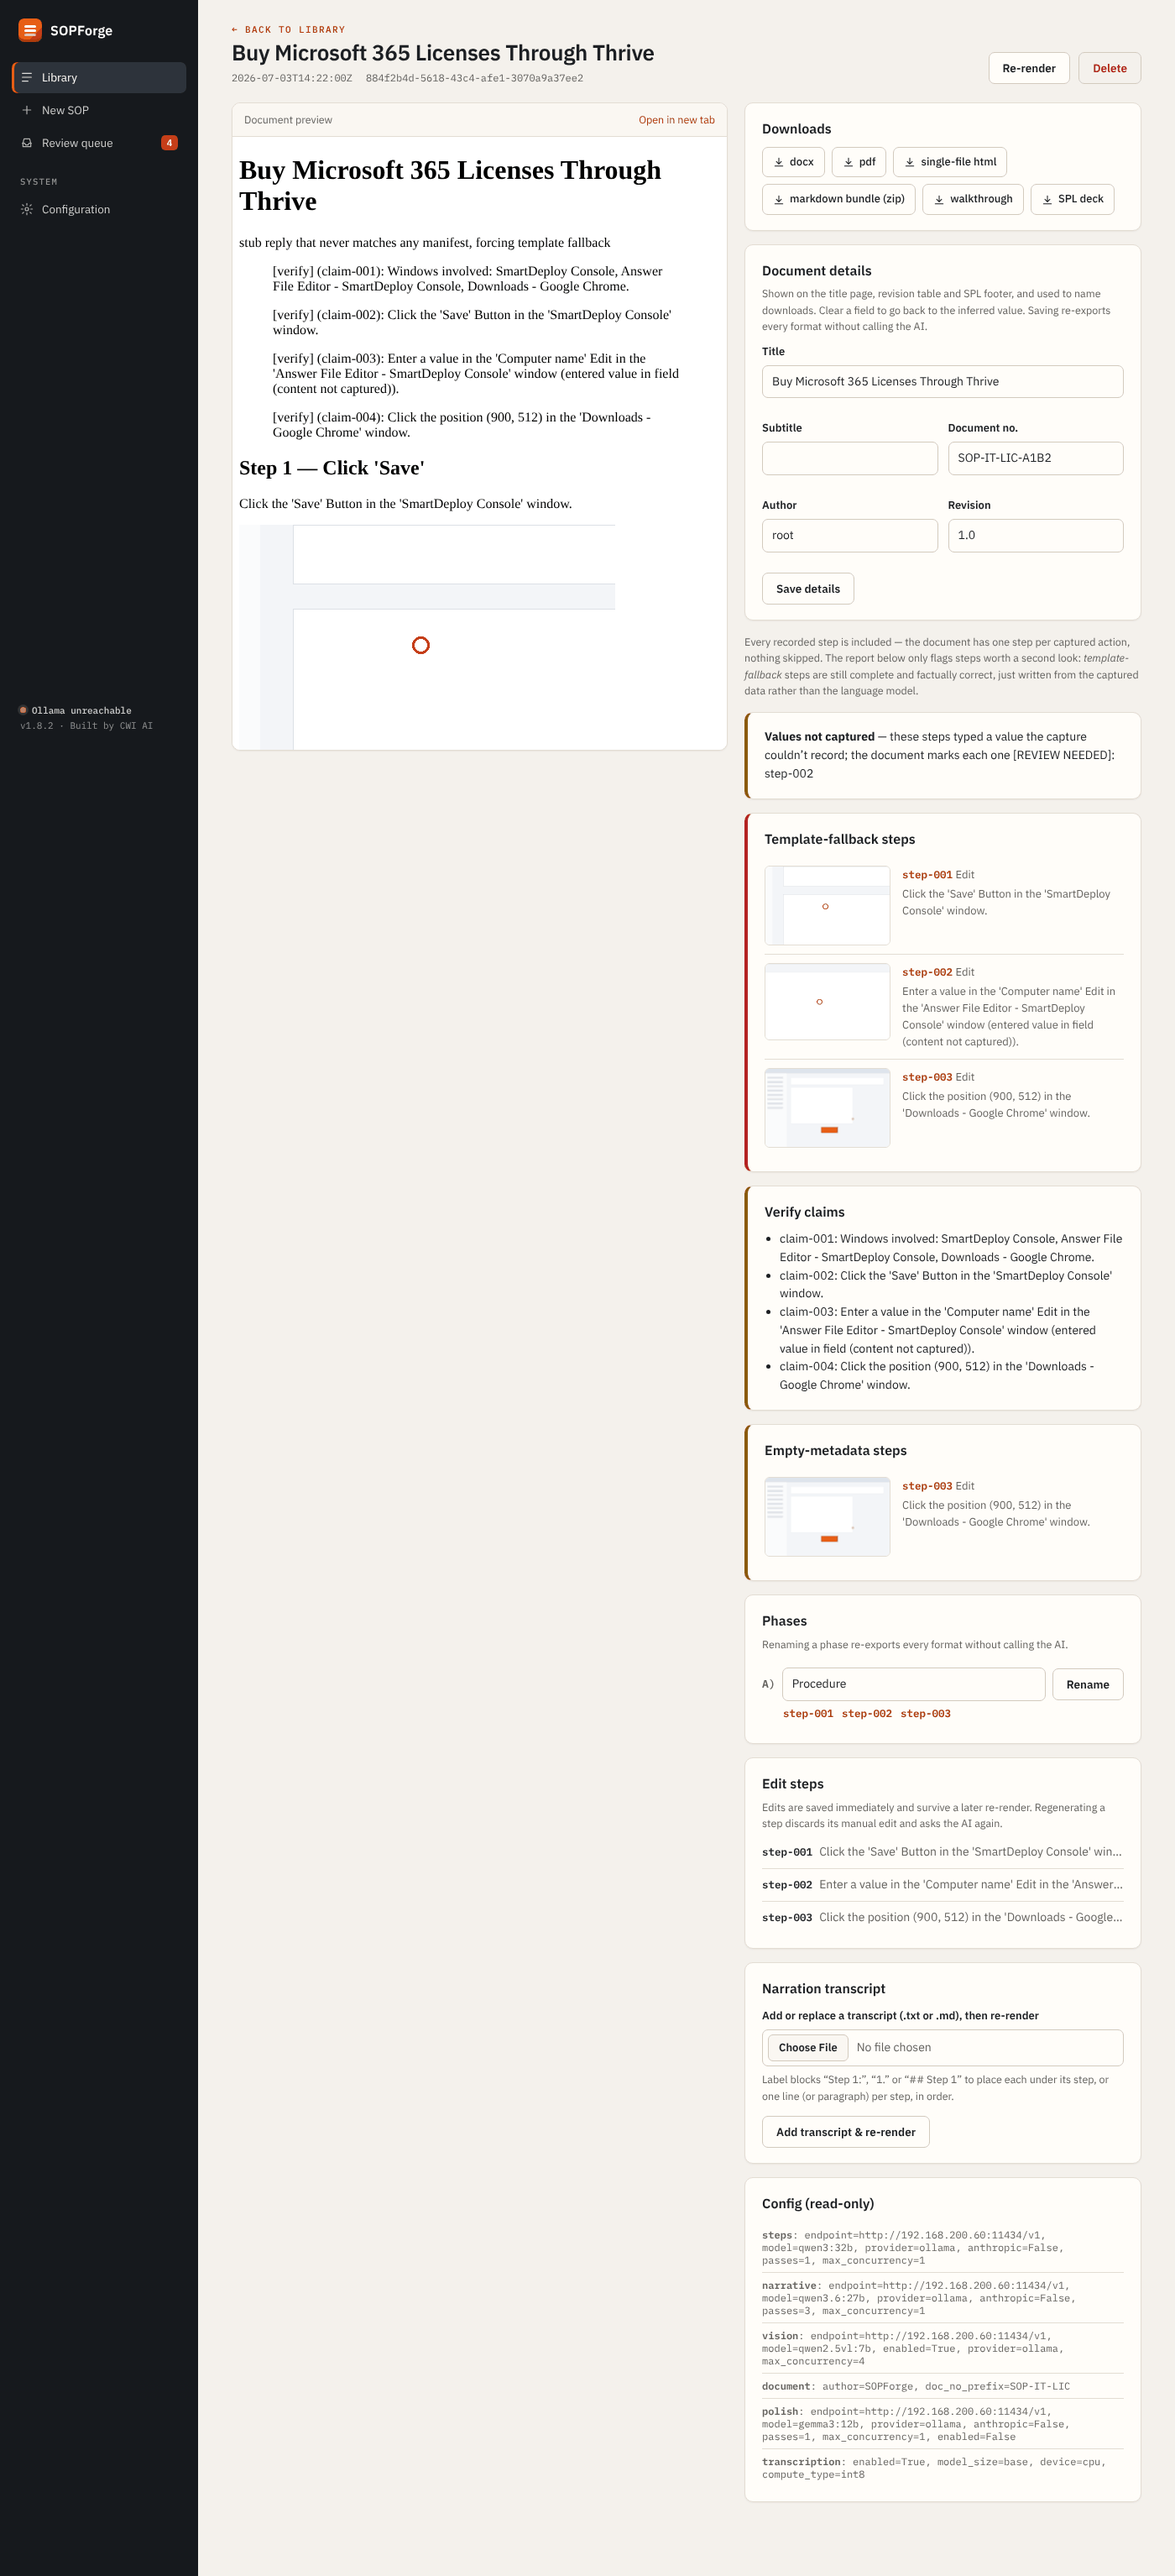
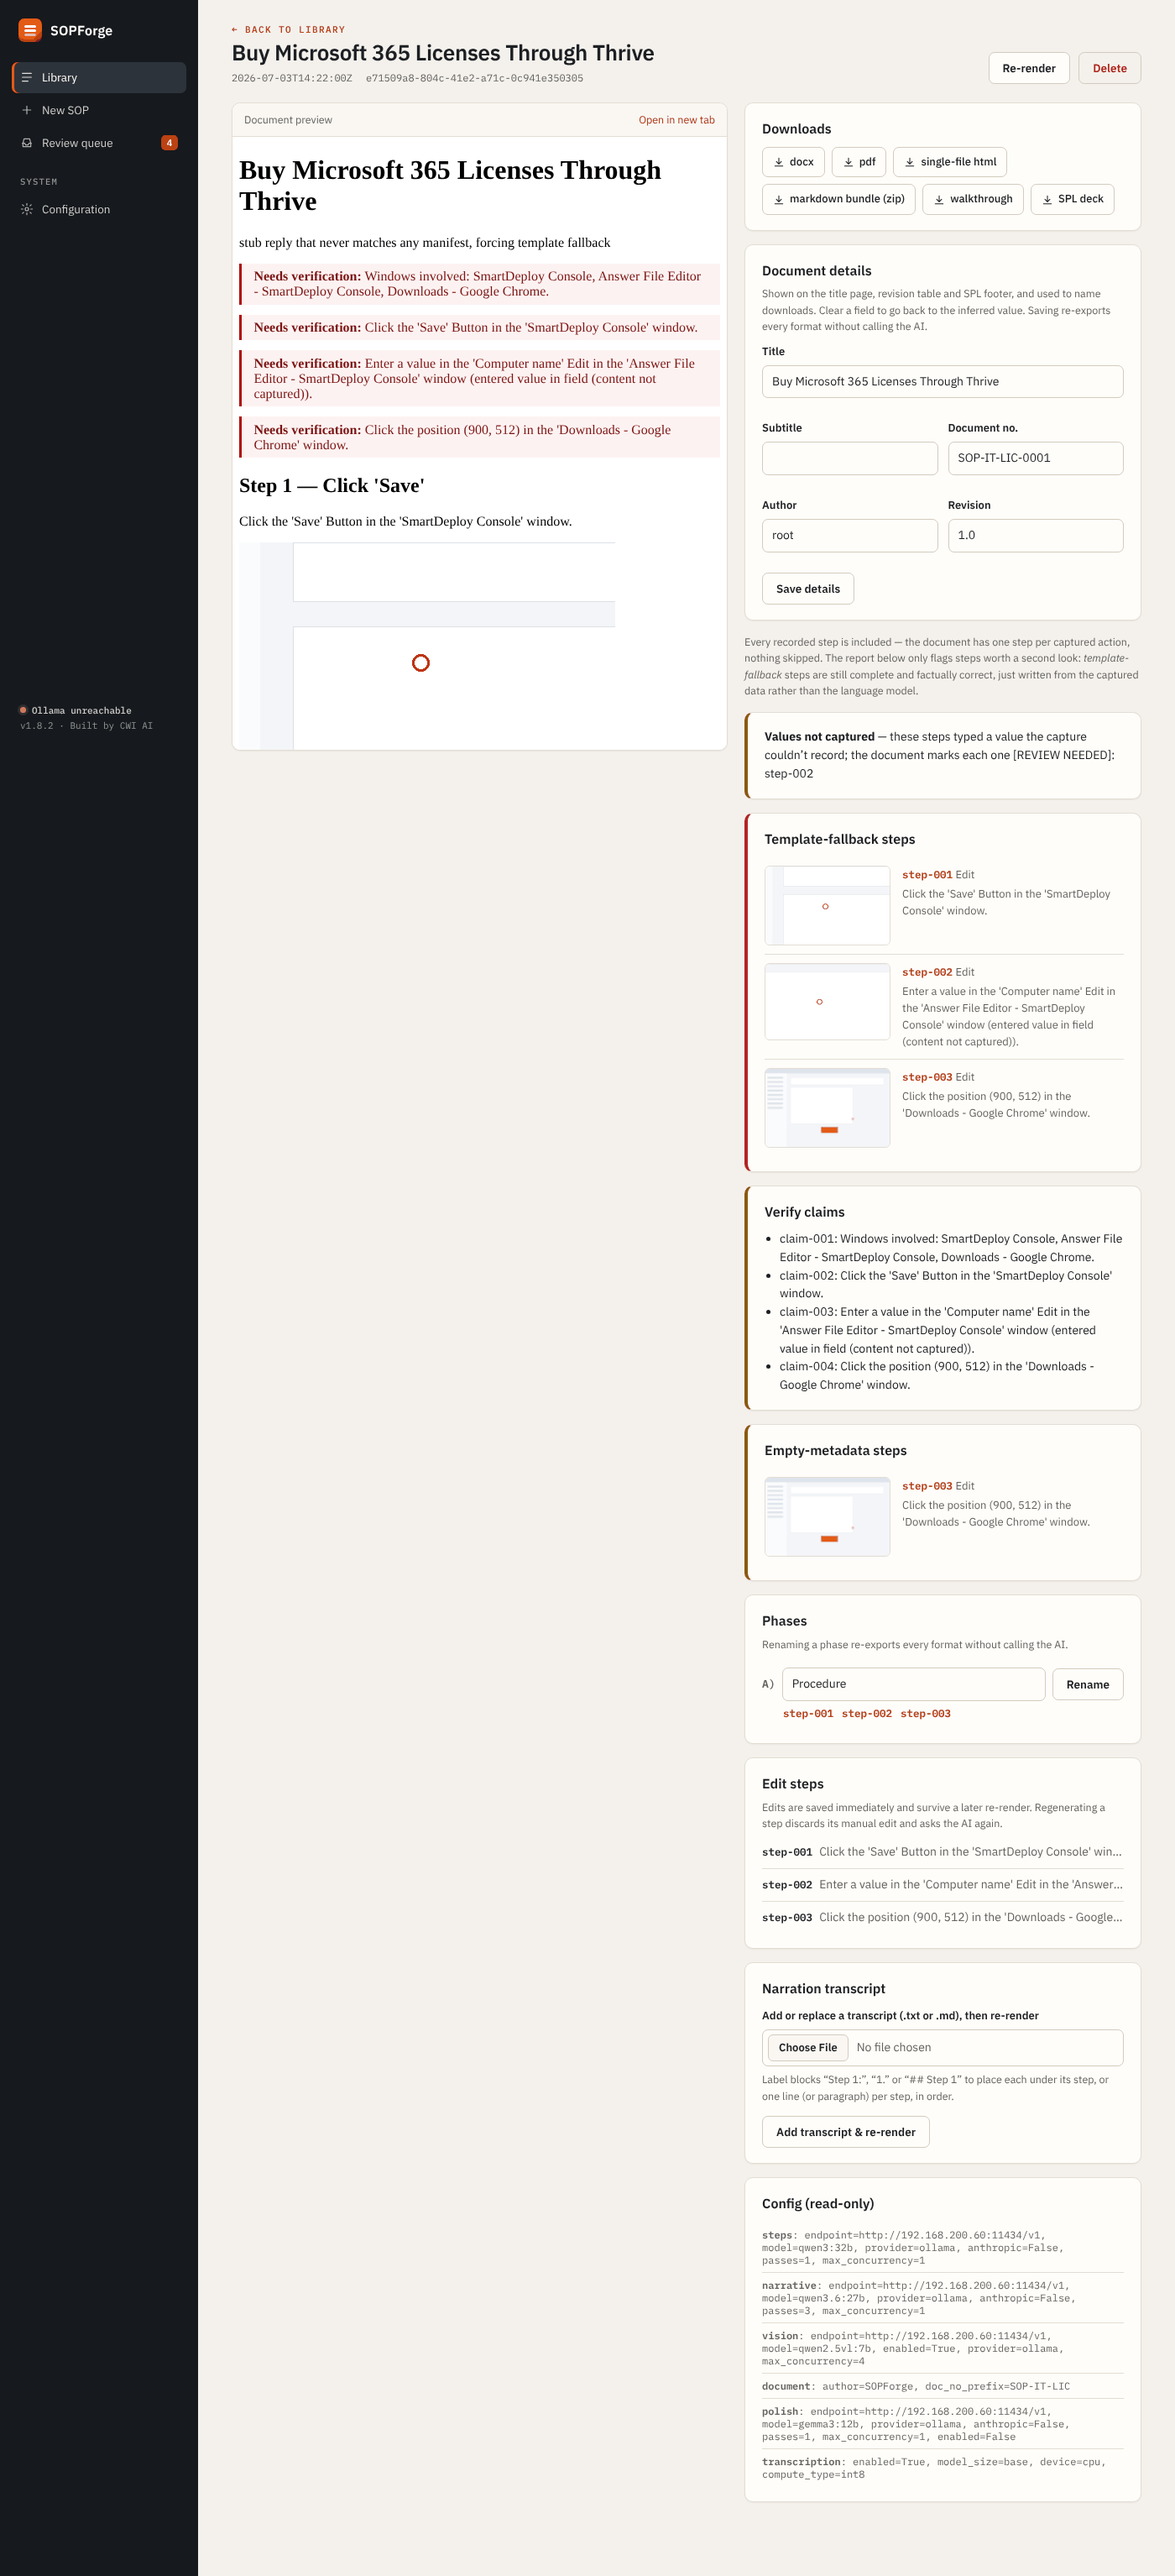
phase-06/task-19: show sequential doc numbers without assigning them from the UI
After merging factory-parity @ 61cb566 (sequential document numbers,
verify callouts), the library's fallback for unexported sessions guessed
the old session-id number, which the counter would then contradict. It now
shows the session's saved doc_no.txt or a dash, and never calls
assign_doc_number, so viewing the library can't consume a number.
Screenshots refreshed.

Claude-Session: https://claude.ai/code/session_01UP6NmoGE5VXqxpSKSwJajb

Changed region(s): [[0.215, 0.0929, 0.5836, 0.2168]]

diff --git a/src/pipeline/webui/library_view.py b/src/pipeline/webui/library_view.py
@@ -11,8 +11,7 @@ import datetime as dt
 import json
 from pathlib import Path
 
-from pipeline.assembler import doc_number
-from pipeline.doc_meta import DEFAULT_DOC_PREFIX
+from pipeline.doc_meta import DOC_NO_FILE
 
 # (file on disk, chip label) -- the download routes server.py serves.
 EXPORTS = (
@@ -71,6 +70,13 @@ def ai_written_count(session_dir, report, step_count):
     return max(step_count - len(fallback), 0)
 
 
+def _saved_doc_no(session_dir):
+    try:
+        return (Path(session_dir) / DOC_NO_FILE).read_text(encoding="utf-8").strip() or None
+    except OSError:
+        return None
+
+
 def _updated(session_dir, fallback_iso):
     for name in ("report.json", "manifest.json"):
         try:
@@ -85,7 +91,7 @@ def _updated(session_dir, fallback_iso):
     return parsed.timestamp(), parsed.strftime("%m/%d/%Y")
 
 
-def session_row(session_id, title, date, session_dir, manifest, status, doc_no_prefix=""):
+def session_row(session_id, title, date, session_dir, manifest, status):
     """One library-table row. `status` is the server's view of the session:
     "staged" | "queued" | "processing" | "done" | "error" | "unknown"."""
     session_dir = Path(session_dir)
@@ -120,16 +126,16 @@ def session_row(session_id, title, date, session_dir, manifest, status, doc_no_p
         ]
 
     sort_ts, updated = _updated(session_dir, date)
-    doc_id = manifest.session.id if manifest is not None else session_id
     return {
         "session_id": session_id,
         "title": title or session_id,
         "date": str(date or ""),
         "mode": "Screenshots" if is_photo else "Capture",
-        # 6g: the number the exports were stamped with (overrides included);
-        # before a first export, the same inferred default doc_meta uses.
-        "doc_no": (report.get("document") or {}).get("doc_no")
-        or (doc_number(doc_no_prefix or DEFAULT_DOC_PREFIX, doc_id) if doc_id else None),
+        # 6g: the number the exports were stamped with (overrides included).
+        # Numbers are assigned sequentially at first export (doc_meta), so an
+        # unexported session shows its saved number if any, else none --
+        # never a guess, and never a counter bump from a page view.
+        "doc_no": (report.get("document") or {}).get("doc_no") or _saved_doc_no(session_dir),
         "steps": steps,
         "ai_steps": ai_written_count(session_dir, report, steps) if status == "done" else None,
         "state": state,

diff --git a/tests/pipeline/test_webui_forge.py b/tests/pipeline/test_webui_forge.py
@@ -365,3 +365,20 @@ def test_document_details_card_round_trips_through_metadata_route(tmp_path):
     assert '<td class="num">SOP-IT-777</td>' in client.get("/ui").text
     page = client.get(f"/ui/sessions/{session_id}").text
     assert 'value="SOP-IT-777"' in page and 'value="2.1"' in page
+
+
+def test_library_never_assigns_doc_numbers_for_unexported_sessions(tmp_path):
+    """Doc numbers are sequential and assigned at first export (doc_meta);
+    a staged session shows none, and viewing the library must not consume
+    a number from the counter."""
+    client = _make_client(tmp_path)
+    resp = client.post(
+        "/ui/build", files=[("files", ("a.png", _png(), "image/png"))], follow_redirects=False
+    )
+    session_id = resp.headers["location"].rsplit("/", 1)[-1]
+    page = client.get("/ui").text
+    row = page.split(f'href="/ui/sessions/{session_id}"', 1)[1].split("</tr>", 1)[0]
+    assert '<td class="num">&mdash;</td>' in row
+    sessions_root = tmp_path / "sessions"
+    assert not (sessions_root / "doc_numbers.json").exists()
+    assert not (sessions_root / session_id / "doc_no.txt").exists()

diff --git a/src/pipeline/server.py b/src/pipeline/server.py
@@ -2704,7 +2704,6 @@ def create_app(
         library index plus in-flight ones (staged, queued, processing,
         failed) from memory, newest first. Read-only over existing files --
         see webui/library_view.py."""
-        prefix = load_models_config(resolved_config_path).document.doc_no_prefix
         rows, seen = [], set()
 
         def add(session_id, title, date):
@@ -2713,7 +2712,7 @@ def create_app(
             manifest = entry[0] if entry else None
             session_dir = entry[3] if entry else sessions_root / session_id
             status = _status_of(session_id) if entry else "done"
-            rows.append(session_row(session_id, title, date, session_dir, manifest, status, prefix))
+            rows.append(session_row(session_id, title, date, session_dir, manifest, status))
 
         for e in library_search(sessions_root):
             add(e["session_id"], e["title"], e.get("date", ""))

diff --git a/phases/06-results.md b/phases/06-results.md
@@ -206,8 +206,10 @@ page in both themes (full-page captures, refreshed at the PR's final head): `pha
   - 6g: a **Document details** card (title, subtitle, document no., author,
     revision) prefilled from `report["document"]` posts to the existing
     `/ui/sessions/{id}/metadata`; blank resets a field to its inferred value.
-    The library's Doc no. column now shows that same resolved number (falling
-    back to doc_meta's inferred `SOP-XXXX` before a first export).
+    The library's Doc no. column now shows that same resolved number. Numbers
+    are sequential and assigned at first export (`doc_no.txt`); an unexported
+    session shows its saved number or "—", and a page view never consumes a
+    counter value.
   - 6f's SPL deck (`spl.pptx`) is the SPL chip and an "SPL deck" download,
     shown only when the file exists; `spl_text_overflow` renders as a review
     note listing the over-long boxes, `spl_error` as a "deck not built" note.
@@ -236,7 +238,7 @@ page in both themes (full-page captures, refreshed at the PR's final head): `pha
 
 | Criterion | Result |
 |---|---|
-| Every existing UI route still renders; every existing UI test passes | PASS. No route or form field removed/renamed. `pytest` (Linux container, pinned ruff 0.15.20 clean): **731 passed** (after merging `factory-parity` @ `fc74f9b`), 6 skipped; the 7 failures/errors are the pre-existing Windows-only set (`winsdk` OCR ×5 in `test_redaction.py`, live UIA, elevated-hotkey probe), identical to the pre-change baseline on `factory-parity` @ `6f49217` (680 passed + same 7). New: `tests/pipeline/test_webui_forge.py` (19). |
+| Every existing UI route still renders; every existing UI test passes | PASS. No route or form field removed/renamed. `pytest` (Linux container, pinned ruff 0.15.20 clean): **734 passed** (after merging `factory-parity` @ `61cb566`), 6 skipped; the 7 failures/errors are the pre-existing Windows-only set (`winsdk` OCR ×5 in `test_redaction.py`, live UIA, elevated-hotkey probe), identical to the pre-change baseline on `factory-parity` @ `6f49217` (680 passed + same 7). New: `tests/pipeline/test_webui_forge.py` (19). |
 | Playwright `-m ui` | **5 passed** (2 existing + 3 new). `test_ui_smoke_upload_to_docx_download` was already failing on `factory-parity` before this change: F-02 (`28287b5`) made "Verify claims" yellow and updated the unit-test twin (`test_session_page_colors_sidecar_sections_correctly`) but not this browser test. Its assertion now matches the unit test (`yellow`); nothing else in it changed. `_launch()` honours `PLAYWRIGHT_CHROMIUM_EXECUTABLE` for containers whose browser revision differs from the pip package. |
 | Served pages make no external network requests | PASS. Browser-level: every request recorded on `/ui`, `/ui?view=review`, a session page, `/ui/config`, and through both drop-zone flows is same-origin (`_assert_local_only`). Markup-level: `test_pages_reference_no_external_resources` (no absolute `src`/`href`/`url()`, no `@import`, no CDN). |
 | Plex fonts load from the frozen bundle | PASS. `test_font_route_reads_from_the_frozen_bundle` (sys.frozen + `_MEIPASS` monkeypatched → bytes come from the bundle dir); `test_server_spec_bundles_the_plex_fonts`; in-browser `document.fonts.check()` true for Plex Sans 600 and Plex Mono on all four page types, body font resolves to `"IBM Plex Sans"`, every font response 200. A real PyInstaller build is not runnable on this Linux container (spec is Windows-targeted; CLAUDE.md runs it for phases 1 & 3 only). |
